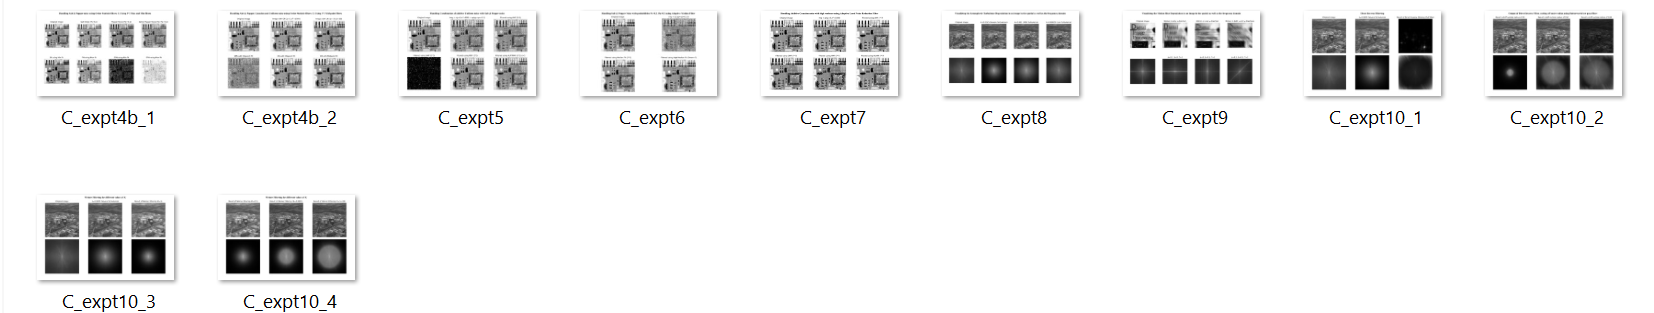
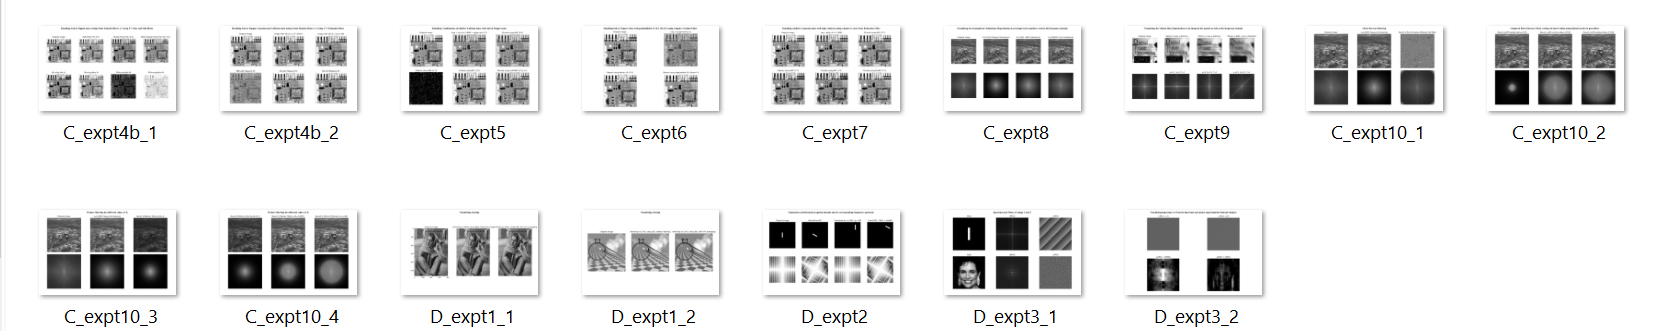
Added expts in part D, and modified FrequencyDomain, PlottingFunctions classes

diff --git a/_D/D_expt3.py b/_D/D_expt3.py
@@ -1,0 +1,97 @@
+'''
+
+D_expt No. 3: 
+
+Title: Visualizing the importance of Fourier Spectrum and phase angle
+
+Aim: To write a program using Python to visualize the importance of Fourier Spectrum and phase angle
+
+'''
+
+# important imports:
+import numpy as np
+import matplotlib.pyplot as plt
+
+# appending path to dip_toolbox
+import sys
+sys.path.append('./')
+
+from dip_toolbox import FrequencyDomain,PlottingFunctions,IntensityTransformations,Filters
+
+# creating objects from classes:
+fd=FrequencyDomain()
+pf=PlottingFunctions()
+it=IntensityTransformations()
+flt=Filters()
+
+# importing images:
+img1=plt.imread('CH04\Fig0424(a)(rectangle).tif')
+img2=plt.imread('CH04\Fig0427(a)(woman).tif')
+
+# cropping excess of img1 from its edges:
+img1=fd.unpad_img(img1,up_c=512,up_r=512,center=True)
+
+# DFT of images:
+img1_f=fd.dft2(img1*fd.freq_trans(img1.shape))
+img2_f=fd.dft2(img2*fd.freq_trans(img2.shape))
+
+# Fourier spectrum and phase angle of images
+img1_sp,img1_pa=np.abs(img1_f),np.angle(img1_f)
+img2_sp,img2_pa=np.abs(img2_f),np.angle(img2_f)
+
+
+# unit magnitude spectrum 
+ums=lambda img_shape:np.ones(img_shape)
+
+# Re-assigning phase and spectrum:
+
+### unit magnitude spectrum + phase of img1
+u_img1p=fd.cps(ums(img1_sp.shape),img1_pa)
+
+### unit magnitude spectrum + phase of img2
+u_img2p=fd.cps(ums(img2_sp.shape),img2_pa)
+
+### spectrum of img2 + phase of img 1
+sp2_img1p=fd.cps(img2_sp,img1_pa)
+
+### spectrum of img1 + phase of img 2
+sp1_img2p=fd.cps(img1_sp,img2_pa)
+
+
+# plotting:
+
+### figure 1
+
+fig_1_imgs=[img1,it.gamma(0.2,255)(img1_sp/fd.prod_rc(img1.shape)),flt.isc(img1_pa,100),img2,it.gamma(0.2,255)(img2_sp/fd.prod_rc(img2.shape)),flt.isc(img2_pa,100)]
+
+fig_1_titles=["img1", "|IMG1|",r"$\angle$IMG1", "img2", "|IMG2|",r"$\angle$IMG2"]
+
+fig_1_ttl="Spectrum and Phase of Image 1 and 2"
+
+fig_1_save_ttl="D_expt3_1.jpg"
+
+pf.plot(fig_1_imgs,fig_1_titles,1,(2,3),fig_1_ttl,fig_1_save_ttl,fig_pad=2.4)
+
+
+### figure 2
+
+imgs_list=[u_img1p,u_img2p,sp2_img1p,sp1_img2p]
+fig_2_imgs=[]
+
+#### converting the images into spatial domain and appending them in list of fig_2_imgs
+for i in imgs_list:
+    fig_2_imgs.append(np.real(fd.idft2(i))*fd.freq_trans(i.shape))
+
+fig_2_imgs[0]=it.gamma(1,255)(flt.isc(fig_2_imgs[0],100)) 
+fig_2_imgs[1]=it.gamma(0.6,255)(flt.isc(fig_2_imgs[1],100)) 
+
+fig_2_titles=[r"$\angle$IMG1 +|1|", r"$\angle$IMG2 +|1|",r"$\angle$IMG1 + |IMG2|", r"$\angle$IMG2 + |IMG1|"]
+
+fig_2_ttl="Visualising importance of Fourier Spectrum and phase angle (Spatial Domain Output)"
+
+fig_2_save_ttl="D_expt3_2.jpg"
+
+pf.plot(fig_2_imgs,fig_2_titles,2,(2,2),fig_2_ttl,fig_2_save_ttl,fig_pad=1.5)
+
+# displaying plots:
+pf.show()

diff --git a/important_classes/frequency_domain.py b/important_classes/frequency_domain.py
@@ -1,6 +1,11 @@
 '''
 Frequency Domain:
 
+Attributes:
+    # flt_size          : used to get filter size based on image size, for applying freq flt
+    # freq_trans        : returns a matrix of (-1)^(x+y) of desired size
+    # cps               : combine phase and spectrum, used to combine phase and spectrum
+    # cri               : combine real and imaginary part, used to combine real and imaginary part
 Methods:
     # getW              : returns Vandermonde matrix for order n
     # dft               : used to calculate 1D Discrete Fourier Transform
@@ -24,6 +29,12 @@ class FrequencyDomain:
         self.flt_size=lambda img_shape: (2*img_shape[0],2*img_shape[1])
 
         self.freq_trans=lambda img_shape:np.array([(-1)**(x+y) for x in range(img_shape[0]) for y in range(img_shape[1])]).reshape(img_shape[0],img_shape[1])
+        
+        self.cri =lambda rep,imp: rep+1j*imp
+
+        self.cps = lambda spectrum,phase: np.multiply(spectrum,np.exp(1j*phase))
+
+        self.prod_rc=lambda img_shape:img_shape[0]*img_shape[1]
 
 
     # Vandermonde matrix
@@ -91,15 +102,30 @@ class FrequencyDomain:
 
     # Apply Frequency Domain filter
 
-    def pad_img(self,img):
+    def pad_img(self,img,p_r=None,p_c=None,center=False):
         r,c=img.shape
-        img_pd=np.zeros((2*r,2*c))
-        img_pd[:r,:c]=img
+        if center==True:
+            if p_c!=None and p_r!=None:
+                img_pd=np.zeros((r+p_r,c+p_c))
+                img_pd[int(p_r/2):r,int(p_c/2):c]=img
+        else:
+            if p_c!=None and p_r!=None:
+                img_pd=np.zeros((r+p_r,c+p_c))
+                img_pd[:r,:c]=img
+            else:
+                img_pd=np.zeros((2*r,2*c))
+                img_pd[:r,:c]=img
         return img_pd
     
-    def unpad_img(self,img_pd):
+    def unpad_img(self,img_pd,up_r=None,up_c=None,center=False):
         r,c=img_pd.shape
-        img_unpd=img_pd[:int(r/2),:int(c/2)]
+        if center==True:
+            img_unpd=img_pd[int(up_r/2):r-int(up_r/2),int(up_c/2):c-int(up_c/2)]
+        else:
+            if up_c!=None and up_r!=None:
+                img_unpd=img_pd[:r-up_c,:c-up_c]
+            else:
+                img_unpd=img_pd[:int(r/2),:int(c/2)]
         return img_unpd
 
     def apply_freq_flt(self,img,flt):

diff --git a/important_classes/plotting.py b/important_classes/plotting.py
@@ -6,13 +6,13 @@ from matplotlib import pyplot as plt, gridspec as gs
 
 class PlottingFunctions:
     def __init__(self):
-        pass
+        self.show=lambda : plt.show()
 
-    def plot(self,img_lst,titles,fig_no,gd,fig_title,save_title,fig_size=(13,8),fig_pad=2,fig_font='Times New Roman',fig_fontweight="bold",fig_fontsize=16,fig_dpi=500,grid=False,axis=False):
+    def plot(self,img_lst,titles,fig_no,gd,fig_title,save_title,fig_size=(13,8),fig_pad=2,fig_font='Times New Roman',fig_fontweight="bold",fig_fontsize=16,fig_dpi=500,grid=False,axis=False,g_hspace=None,g_wspace=None):
         fig=plt.figure(fig_no)
         i,j=gd
         n=0
-        gs_=gs.GridSpec(i,j)
+        gs_=gs.GridSpec(i,j,hspace=g_hspace,wspace=g_wspace)
         for k in range(i):
             for l in range(j):
                 ax=plt.subplot(gs_[k,l])
@@ -25,3 +25,5 @@ class PlottingFunctions:
         fig.set_size_inches(fig_size)
         fig.suptitle(fig_title,font=fig_font,fontweight=fig_fontweight,fontsize=fig_fontsize)
         fig.savefig('input_output/'+save_title,dpi=fig_dpi)
+
+    

diff --git a/_D/D_expt2.py b/_D/D_expt2.py
@@ -12,7 +12,7 @@ Aim: To write a program using Python to visualize the effect of Translation and 
 from matplotlib import pyplot as plt
 import numpy as np
 
-### adding path to dip_toolbox
+### appending path to dip_toolbox
 import sys
 sys.path.append('./')
 
@@ -53,8 +53,8 @@ fig_1_titles=["Original Image", f"Rotated by {angle}°",f"Translated by tx={tx},
 
 fig_1_ttl="Translation and Rotation in spatial domain and its corresponding frequency spectrum "
 
-fig_1_save_ttl="D_expt2_1.jpg"
+fig_1_save_ttl="D_expt2.jpg"
 
 pf.plot(fig_1_imgs,fig_1_titles,1,(2,4),fig_1_ttl,fig_1_save_ttl,fig_pad=2.2)
 
-plt.show()
+pf.show()

diff --git a/dip_toolbox.py b/dip_toolbox.py
@@ -13,4 +13,4 @@ from important_classes.noise_models import NoiseModels
 from important_classes.frequency_domain import FrequencyDomain
 from important_classes.degradation_models import DegradationModels
 from important_classes.morphological_transformations import MorphologicalTransformations
-from important_classes.plotting_function import PlottingFunctions
+from important_classes.plotting import PlottingFunctions

diff --git a/_D/D_expt1.py b/_D/D_expt1.py
@@ -22,7 +22,7 @@ import matplotlib.pyplot as plt
 import matplotlib.gridspec as gs
 import cv2 as cv
 
-### adding path to dip_toolbox
+### appending path to dip_toolbox
 import sys
 sys.path.append('./')
 

diff --git a/README.md b/README.md
@@ -81,3 +81,4 @@ Download the repository as a zip file, and extract it in a folder on your local 
 |   |   |
 | 1. | Visualizing Aliasing   |
 | 2. | Visualizing the effect of Translation and Rotation in spatial domain and its corresponding frequency spectrum |
+| 3. | Visualizing the importance of Fourier Spectrum and phase angle |
